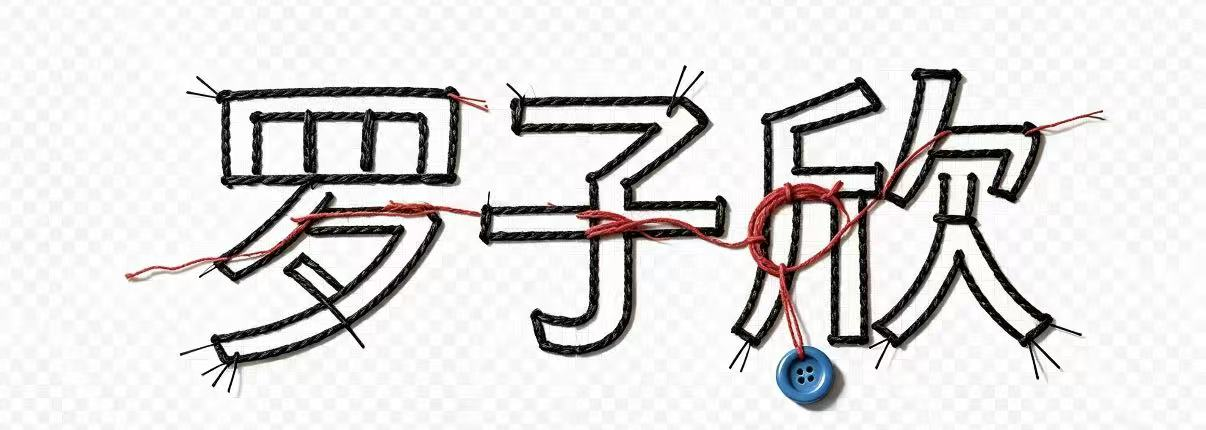
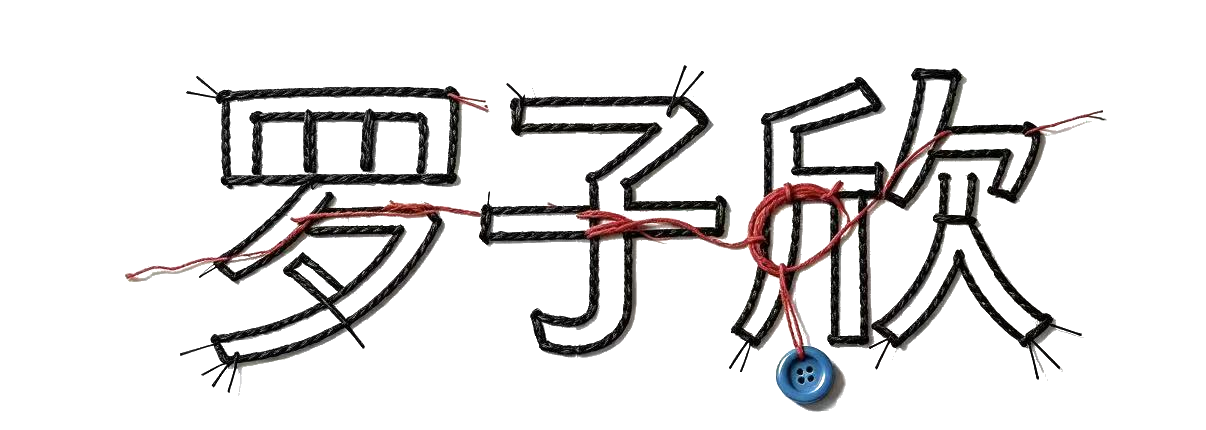
罗子欣绳绣图去底透明 + 移除 blend 模式 + 加柔和纸张底色融入背景

diff --git a/index.html b/index.html
@@ -456,29 +456,38 @@
             animation: heroIn 1.2s cubic-bezier(0.16, 1, 0.3, 1) 0.25s forwards;
         }
 
-        /* 罗子欣：绳绣艺术字图片（白底用 blend 隐去，只显绳字） */
+        /* 罗子欣：绳绣艺术字图片（已去底透明，直接浮在背景上） */
         .hero-name-art {
             width: clamp(300px, 44vw, 600px);
             height: auto;
             margin-bottom: 2px;
-            mix-blend-mode: multiply;
-            filter: drop-shadow(0 10px 26px rgba(0, 0, 0, 0.08));
+            filter: drop-shadow(0 12px 28px rgba(0, 0, 0, 0.10));
             transition: transform 0.5s cubic-bezier(0.16, 1, 0.3, 1), filter 0.5s ease;
             transform: translateZ(0);
+            /* 轻微纸张底色，让它和页面背景自然融合 */
+            background: rgba(255, 255, 255, 0.35);
+            border-radius: 18px;
+            padding: 18px 28px;
+            backdrop-filter: blur(4px);
+            -webkit-backdrop-filter: blur(4px);
+            border: 1px solid rgba(0, 0, 0, 0.04);
         }
 
         .hero-name-art:hover {
             transform: translateY(-8px) scale(1.015);
-            filter: drop-shadow(0 20px 40px rgba(200, 75, 75, 0.22));
+            filter: drop-shadow(0 24px 48px rgba(200, 75, 75, 0.18));
+            background: rgba(255, 255, 255, 0.50);
         }
 
         [data-theme="dark"] .hero-name-art {
-            mix-blend-mode: screen;
-            filter: invert(1) hue-rotate(180deg) drop-shadow(0 10px 26px rgba(0, 0, 0, 0.5));
+            background: rgba(255, 255, 255, 0.06);
+            border-color: rgba(255, 255, 255, 0.08);
+            filter: drop-shadow(0 12px 28px rgba(0, 0, 0, 0.4));
         }
 
         [data-theme="dark"] .hero-name-art:hover {
-            filter: invert(1) hue-rotate(180deg) drop-shadow(0 20px 40px rgba(255, 107, 107, 0.3));
+            background: rgba(255, 255, 255, 0.10);
+            filter: drop-shadow(0 24px 48px rgba(255, 107, 107, 0.22));
         }
 
         /* 创意内容创作者：放大网页文字 + 绳绣描边 */
